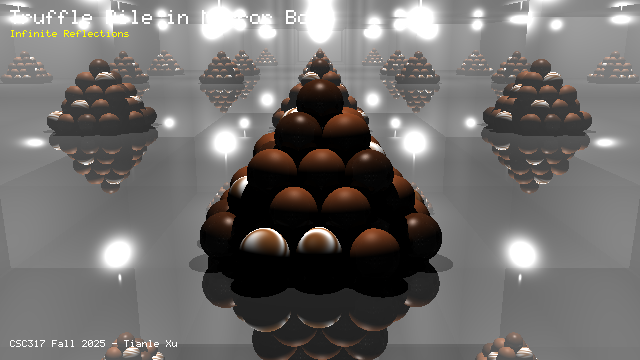
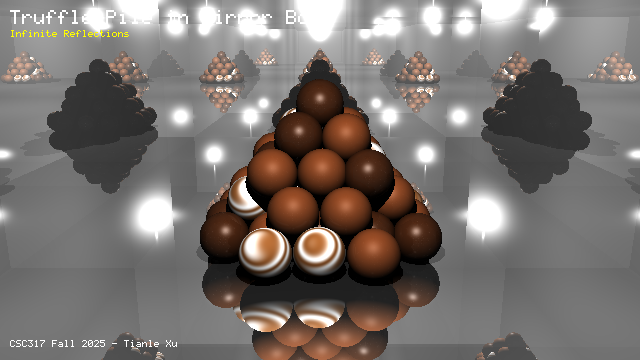
Move light to front

diff --git a/main.cpp b/main.cpp
@@ -152,7 +152,7 @@ int main(int argc, char * argv[])
 
   // Lights
   auto point_light = std::make_shared<PointLight>();
-  point_light->p = Eigen::Vector3d(0, 9, 0); // Single light on top
+  point_light->p = Eigen::Vector3d(0, 9, 10); // Single light on top front
   point_light->I = Eigen::Vector3d(1.5, 1.5, 1.5);
   lights.push_back(point_light);
 
